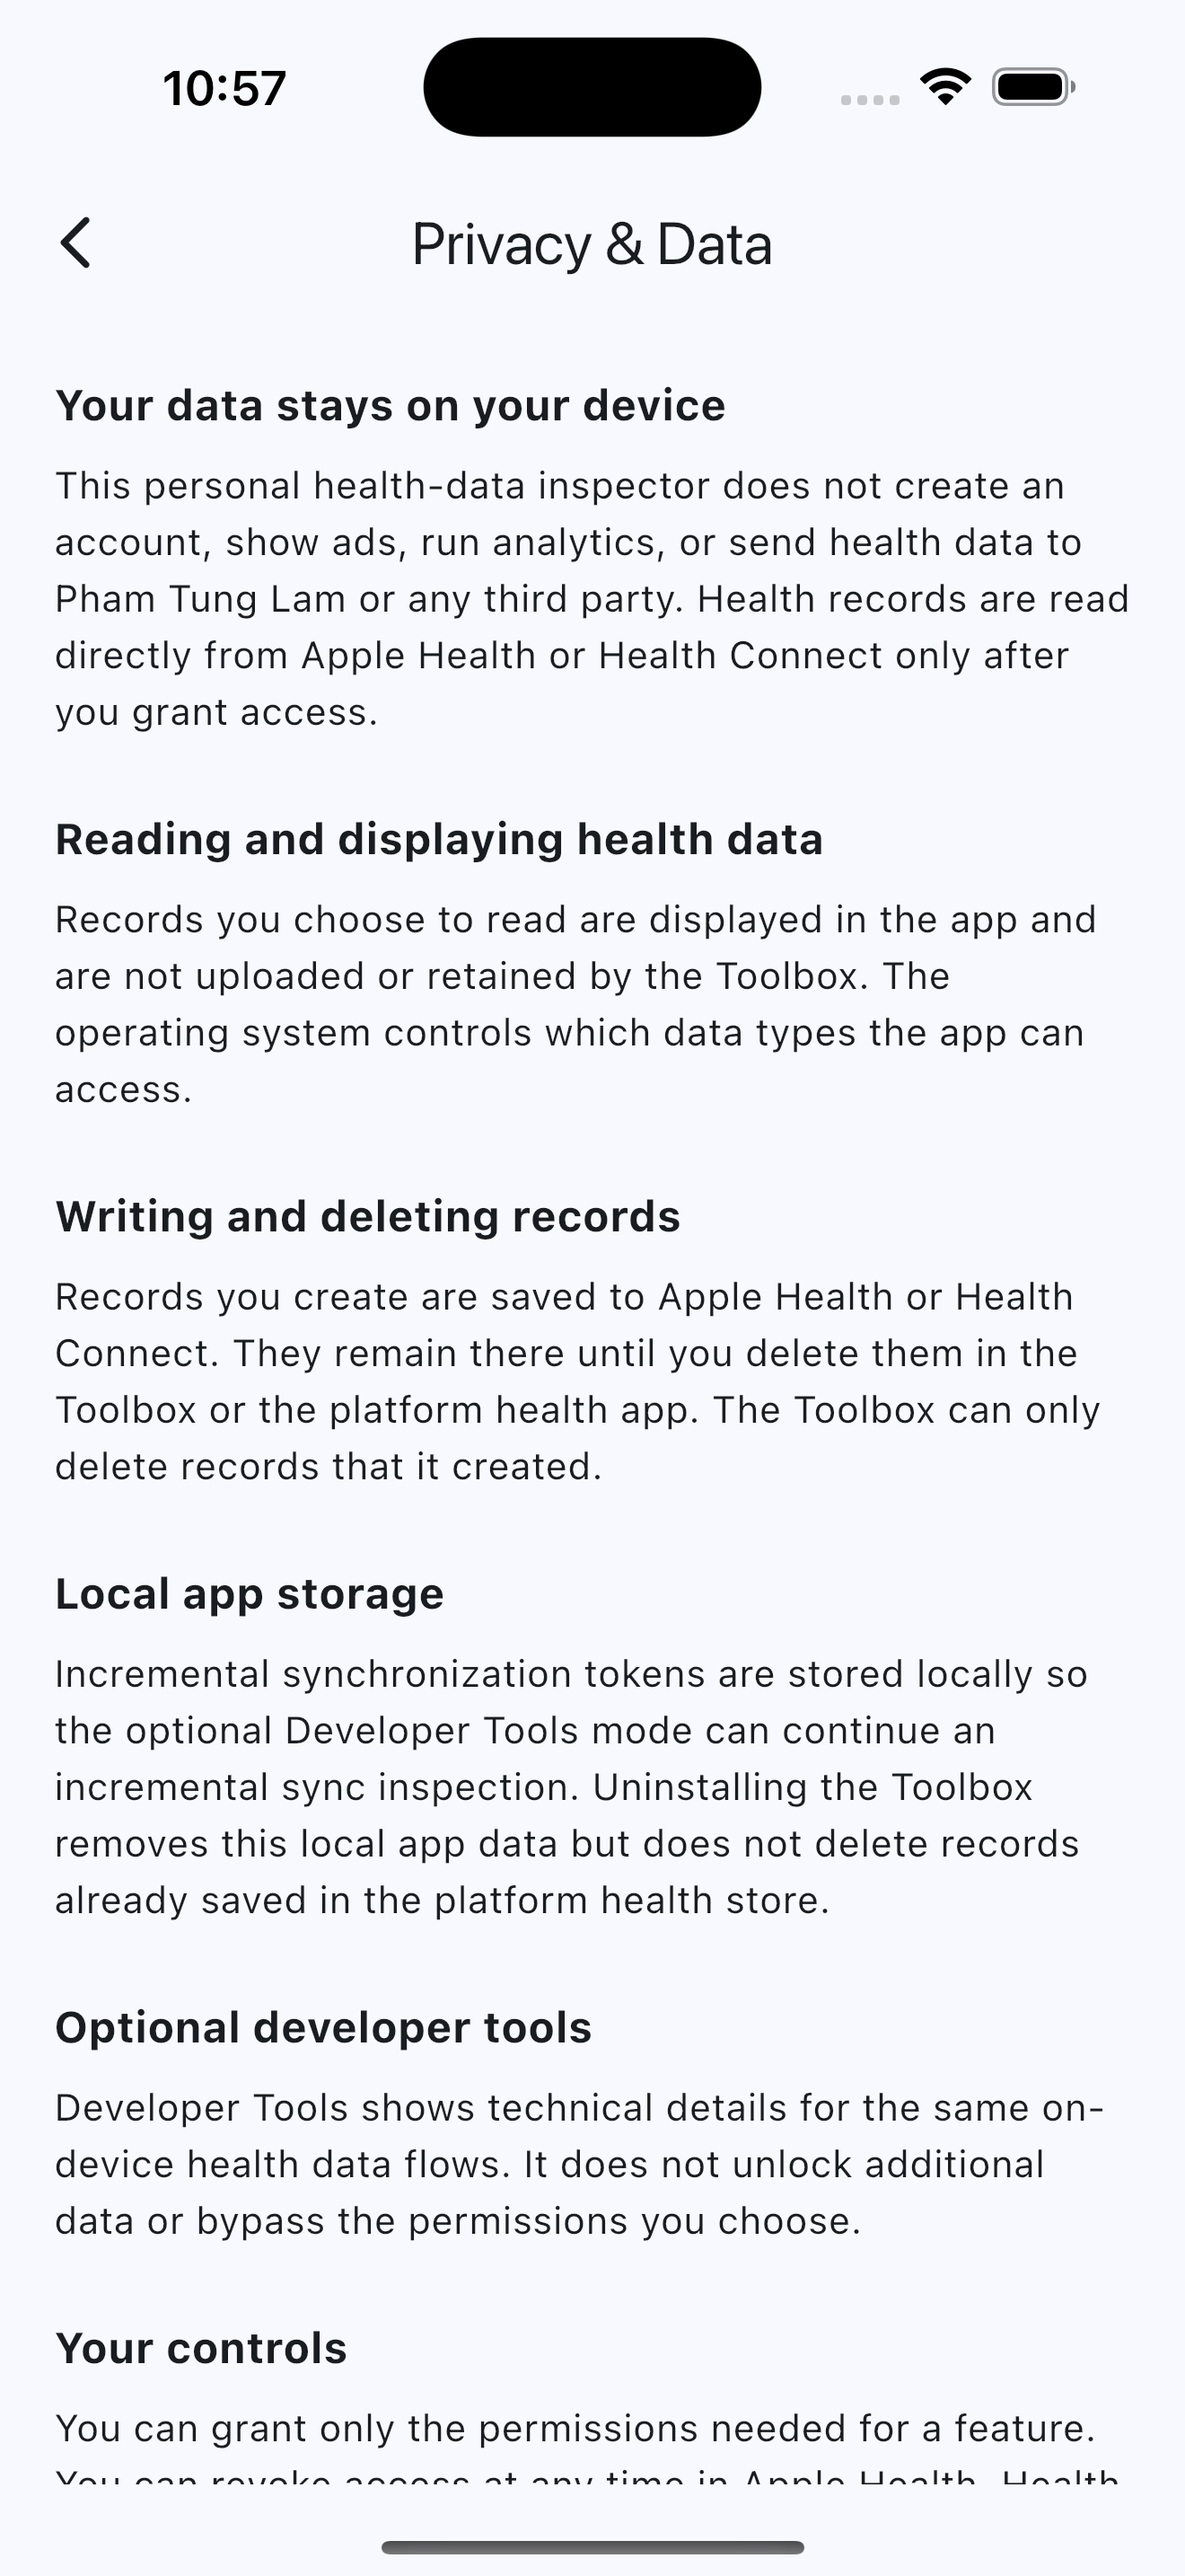
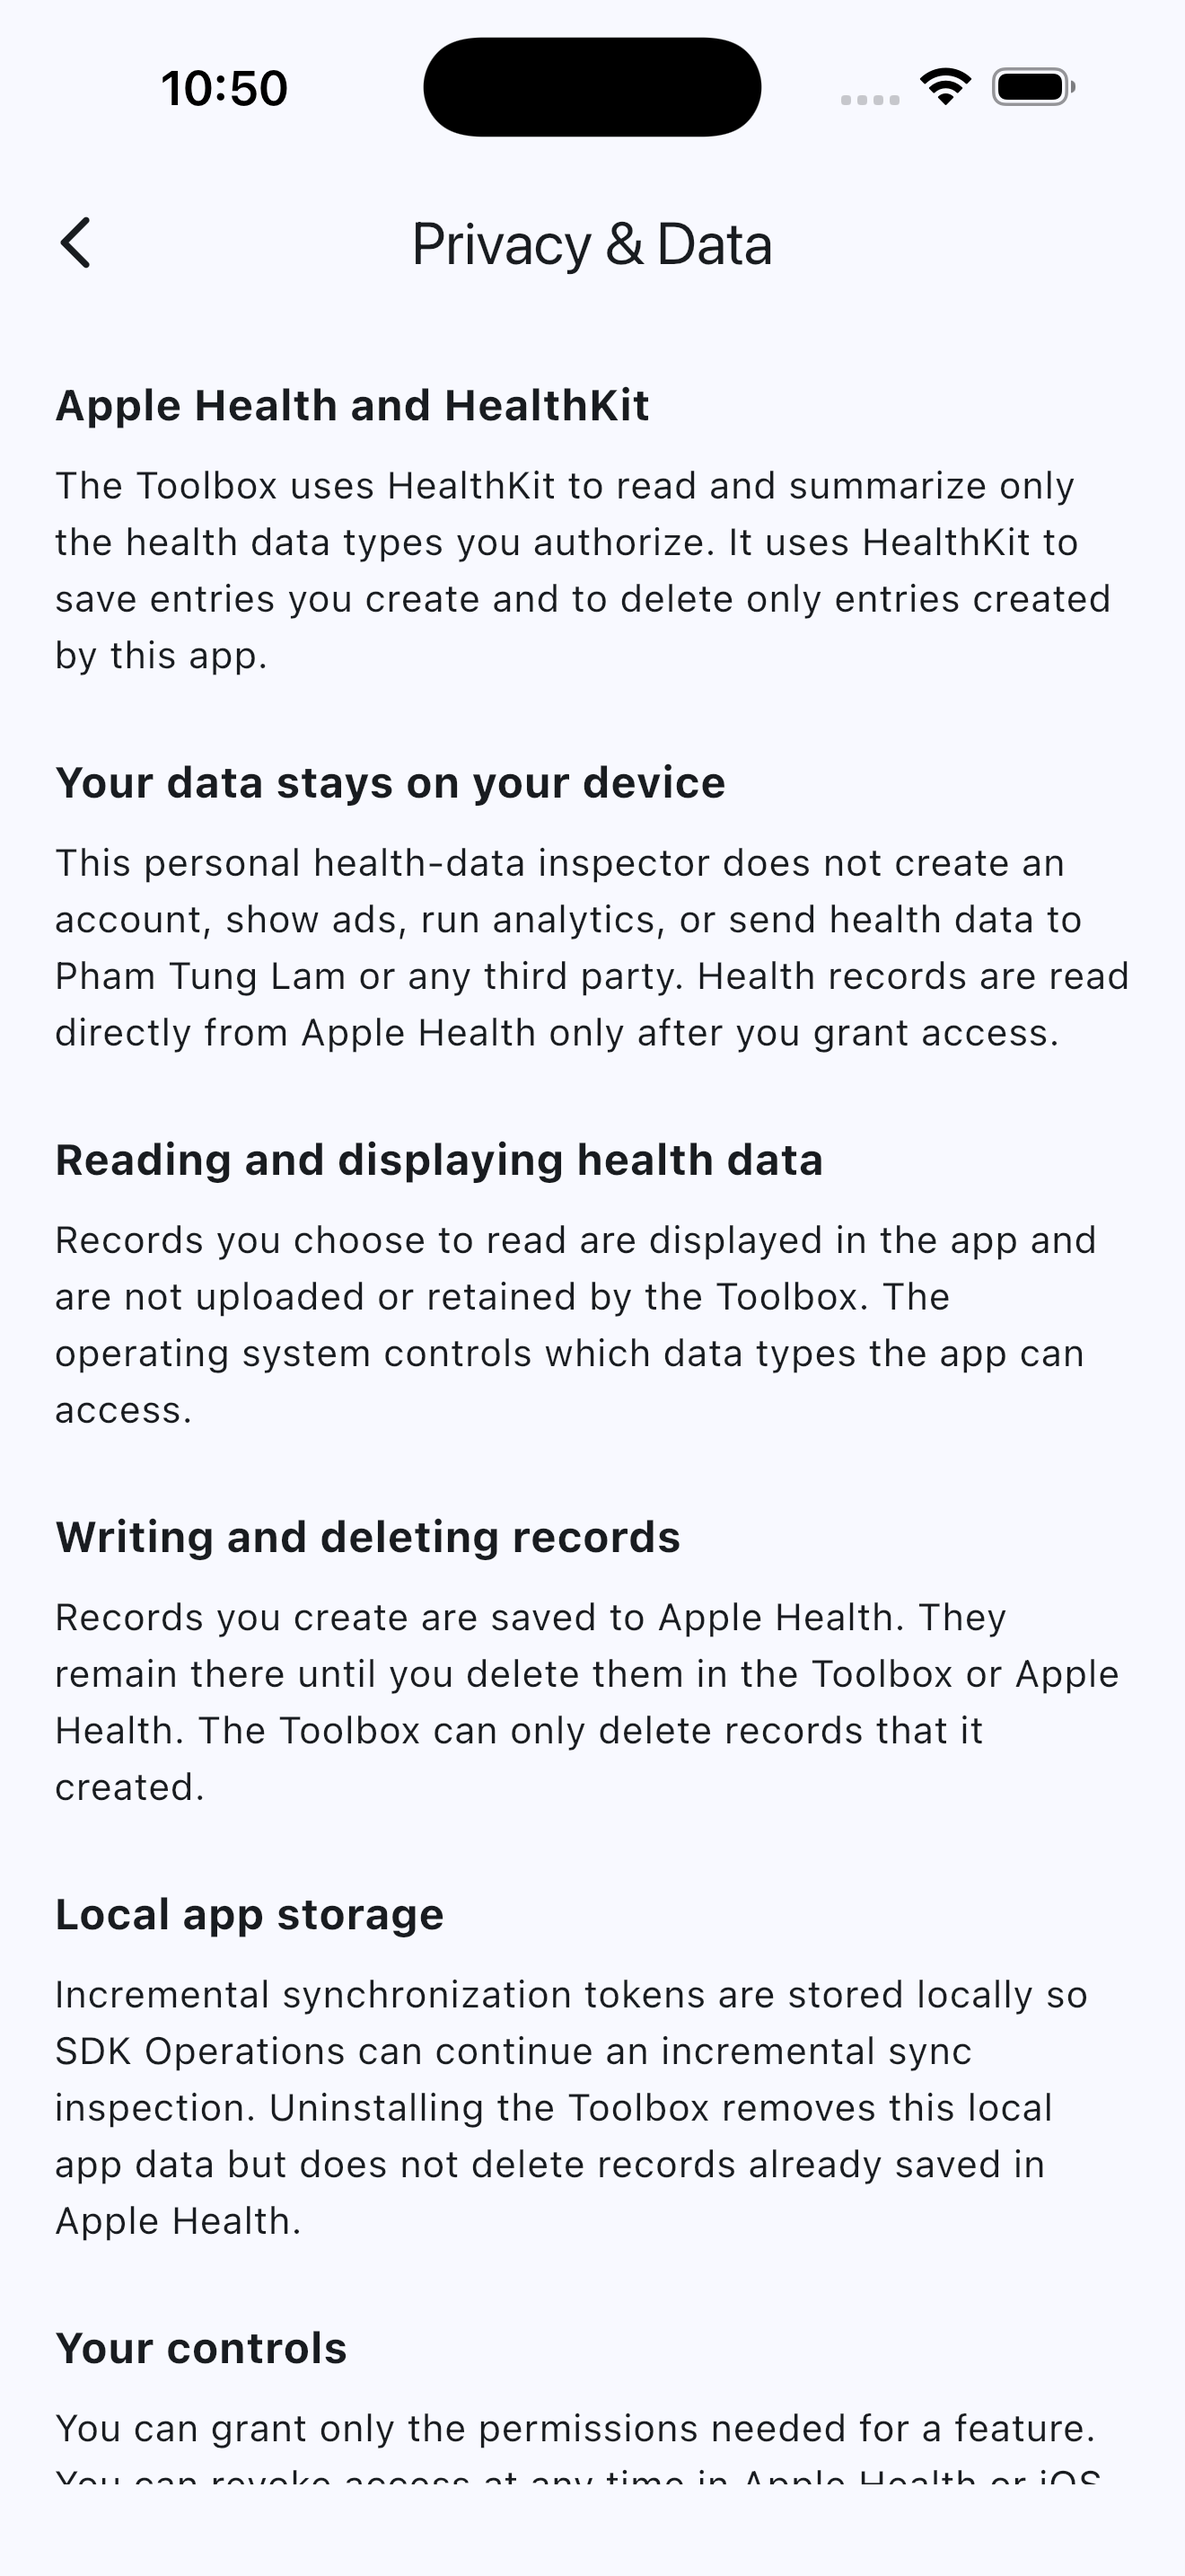
fix(toolbox): identify HealthKit in iOS UI

Changed region(s): [[0.0311, 0.1552, 0.9629, 0.8689], [0.3106, 0.962, 0.6833, 0.993], [0.2174, 0.031, 0.2485, 0.0621]]

diff --git a/examples/health_connector_toolbox/test/features/home/widgets/platform_status_card_test.dart b/examples/health_connector_toolbox/test/features/home/widgets/platform_status_card_test.dart
@@ -1,0 +1,55 @@
+import 'package:flutter/material.dart';
+import 'package:flutter_test/flutter_test.dart';
+import 'package:health_connector/health_connector.dart' show HealthPlatform;
+import 'package:health_connector_toolbox/src/common/theme/app_theme_data.dart';
+import 'package:health_connector_toolbox/src/features/home/widgets/platform_status_card.dart';
+
+void main() {
+  testWidgets('Apple platform card identifies HealthKit functionality', (
+    tester,
+  ) async {
+    // Given the Apple health platform status shown on the home screen.
+    await tester.pumpWidget(
+      MaterialApp(
+        theme: appThemeData,
+        home: const Scaffold(
+          body: PlatformStatusCard(
+            healthPlatform: HealthPlatform.appleHealth,
+          ),
+        ),
+      ),
+    );
+
+    // When the platform status is displayed.
+    await tester.pumpAndSettle();
+
+    // Then HealthKit and its authorized functionality are explicit.
+    expect(find.text('Apple Health (HealthKit)'), findsOneWidget);
+    expect(find.textContaining('Uses HealthKit'), findsOneWidget);
+    expect(find.textContaining('authorized data'), findsOneWidget);
+  });
+
+  testWidgets('Android platform card identifies Health Connect functionality', (
+    tester,
+  ) async {
+    // Given the Android health platform status shown on the home screen.
+    await tester.pumpWidget(
+      MaterialApp(
+        theme: appThemeData,
+        home: const Scaffold(
+          body: PlatformStatusCard(
+            healthPlatform: HealthPlatform.healthConnect,
+          ),
+        ),
+      ),
+    );
+
+    // When the platform status is displayed.
+    await tester.pumpAndSettle();
+
+    // Then Health Connect and its authorized functionality are explicit.
+    expect(find.text('Health Connect'), findsOneWidget);
+    expect(find.textContaining('Uses Health Connect'), findsOneWidget);
+    expect(find.textContaining('authorized data'), findsOneWidget);
+  });
+}

diff --git a/examples/health_connector_toolbox/lib/src/features/privacy/pages/privacy_policy_page.dart b/examples/health_connector_toolbox/lib/src/features/privacy/pages/privacy_policy_page.dart
@@ -15,6 +15,20 @@ final class PrivacyPolicyPage extends StatelessWidget {
       HealthPlatform.appleHealth => 'Apple Health',
       HealthPlatform.healthConnect => 'Health Connect',
     };
+    final integrationTitle = switch (healthPlatform) {
+      HealthPlatform.appleHealth => 'Apple Health and HealthKit',
+      HealthPlatform.healthConnect => 'Health Connect integration',
+    };
+    final integrationBody = switch (healthPlatform) {
+      HealthPlatform.appleHealth =>
+        'The Toolbox uses HealthKit to read and summarize only the health data '
+            'types you authorize. It uses HealthKit to save entries you create '
+            'and to delete only entries created by this app.',
+      HealthPlatform.healthConnect =>
+        'The Toolbox uses Health Connect to read and summarize only the health '
+            'data types you authorize. It saves entries you create and deletes '
+            'only entries created by this app.',
+    };
     final controlsBody = switch (healthPlatform) {
       HealthPlatform.appleHealth =>
         'You can grant only the permissions needed for a feature. You can '
@@ -32,6 +46,10 @@ final class PrivacyPolicyPage extends StatelessWidget {
         child: ListView(
           padding: const EdgeInsets.all(20),
           children: [
+            _PrivacySection(
+              title: integrationTitle,
+              body: integrationBody,
+            ),
             _PrivacySection(
               title: 'Your data stays on your device',
               body:

diff --git a/examples/health_connector_toolbox/test/features/privacy/privacy_policy_page_test.dart b/examples/health_connector_toolbox/test/features/privacy/privacy_policy_page_test.dart
@@ -21,14 +21,16 @@ void main() {
     // When the privacy information is displayed.
     await tester.pumpAndSettle();
 
-    // Then every platform-specific disclosure is about Apple Health.
+    // Then every platform-specific disclosure identifies Apple HealthKit.
     expect(find.text('Your data stays on your device'), findsOneWidget);
     expect(find.textContaining('Apple Health'), findsWidgets);
+    expect(find.textContaining('HealthKit'), findsWidgets);
     expect(
       find.textContaining(RegExp('Health Connect(?!or)')),
       findsNothing,
     );
     expect(find.textContaining('Android'), findsNothing);
+    expect(find.textContaining('CareKit'), findsNothing);
   });
 
   testWidgets('Health Connect privacy page excludes Apple Health details', (
@@ -54,6 +56,7 @@ void main() {
       findsWidgets,
     );
     expect(find.textContaining('Apple Health'), findsNothing);
+    expect(find.textContaining('HealthKit'), findsNothing);
     expect(find.textContaining('iOS'), findsNothing);
   });
 

diff --git a/examples/health_connector_toolbox/lib/src/common/constants/app_texts.dart b/examples/health_connector_toolbox/lib/src/common/constants/app_texts.dart
@@ -349,8 +349,14 @@ abstract final class AppTexts {
   // endregion
 
   // region Health Platforms
-  static const String appleHealth = 'Apple Health';
+  static const String appleHealth = 'Apple Health (HealthKit)';
+  static const String appleHealthIntegrationDescription =
+      'Uses HealthKit to read and summarize authorized data, and to manage '
+      'entries created by this app';
   static const String healthConnect = 'Health Connect';
+  static const String healthConnectIntegrationDescription =
+      'Uses Health Connect to read and summarize authorized data, and to '
+      'manage entries created by this app';
 
   // endregion
 

diff --git a/examples/health_connector_toolbox/lib/src/features/home/widgets/platform_status_card.dart b/examples/health_connector_toolbox/lib/src/features/home/widgets/platform_status_card.dart
@@ -104,6 +104,14 @@ final class PlatformStatusCard extends StatelessWidget {
                           ),
                         ],
                       ),
+                      const SizedBox(height: 8),
+                      Text(
+                        healthPlatform.integrationDescription,
+                        style: theme.textTheme.bodySmall?.copyWith(
+                          color: colorScheme.onSurfaceVariant,
+                          height: 1.4,
+                        ),
+                      ),
                     ],
                   ),
                 ),

diff --git a/examples/health_connector_toolbox/lib/src/common/utils/extensions/health_platform_ui_extension.dart b/examples/health_connector_toolbox/lib/src/common/utils/extensions/health_platform_ui_extension.dart
@@ -14,6 +14,15 @@ extension HealthPlatformUI on HealthPlatform {
     };
   }
 
+  /// Returns the user-facing explanation of this platform integration.
+  String get integrationDescription {
+    return switch (this) {
+      HealthPlatform.appleHealth => AppTexts.appleHealthIntegrationDescription,
+      HealthPlatform.healthConnect =>
+        AppTexts.healthConnectIntegrationDescription,
+    };
+  }
+
   /// Returns the icon for this health platform.
   IconData get icon {
     return switch (this) {

diff --git a/examples/health_connector_toolbox/store/RELEASE.md b/examples/health_connector_toolbox/store/RELEASE.md
@@ -3,7 +3,7 @@
 ## Product identity
 
 - App name: `Health Connector Toolbox`
-- Version: `1.0.0` (`3`)
+- Version: `1.0.0` (`4`)
 - Android application ID: `com.phamtunglam.healthconnector`
 - Apple bundle ID: `com.phamtunglam.healthconnector`
 - Default locale: English (United States)
@@ -24,8 +24,8 @@ Google Play short description:
 
 App Store description:
 
-> Health Connector Toolbox helps you inspect and manage the health data already
-> stored in Apple Health on your iPhone or iPad.
+> Health Connector Toolbox uses Apple's HealthKit framework to help you inspect
+> and manage health data stored in the Health app on your iPhone or iPad.
 >
 > Choose exactly which data types the app can access. Browse records over a time
 > range, view totals and averages for supported metrics, add health entries, and
@@ -107,6 +107,11 @@ What's new:
 > Aggregate Data calculates supported totals, averages, minimums, or maximums.
 > Incremental Data Sync shows changes for authorized data types. Health data
 > never leaves the device. The app provides no medical advice.
+>
+> This iOS build uses HealthKit only; it does not use CareKit. On launch, the
+> Health Data Source card identifies the integration as "Apple Health
+> (HealthKit)" and explains its authorized read, summary, write, and delete
+> operations. The Privacy & Data page provides the same HealthKit disclosure.
 
 ## Android release signing
 
